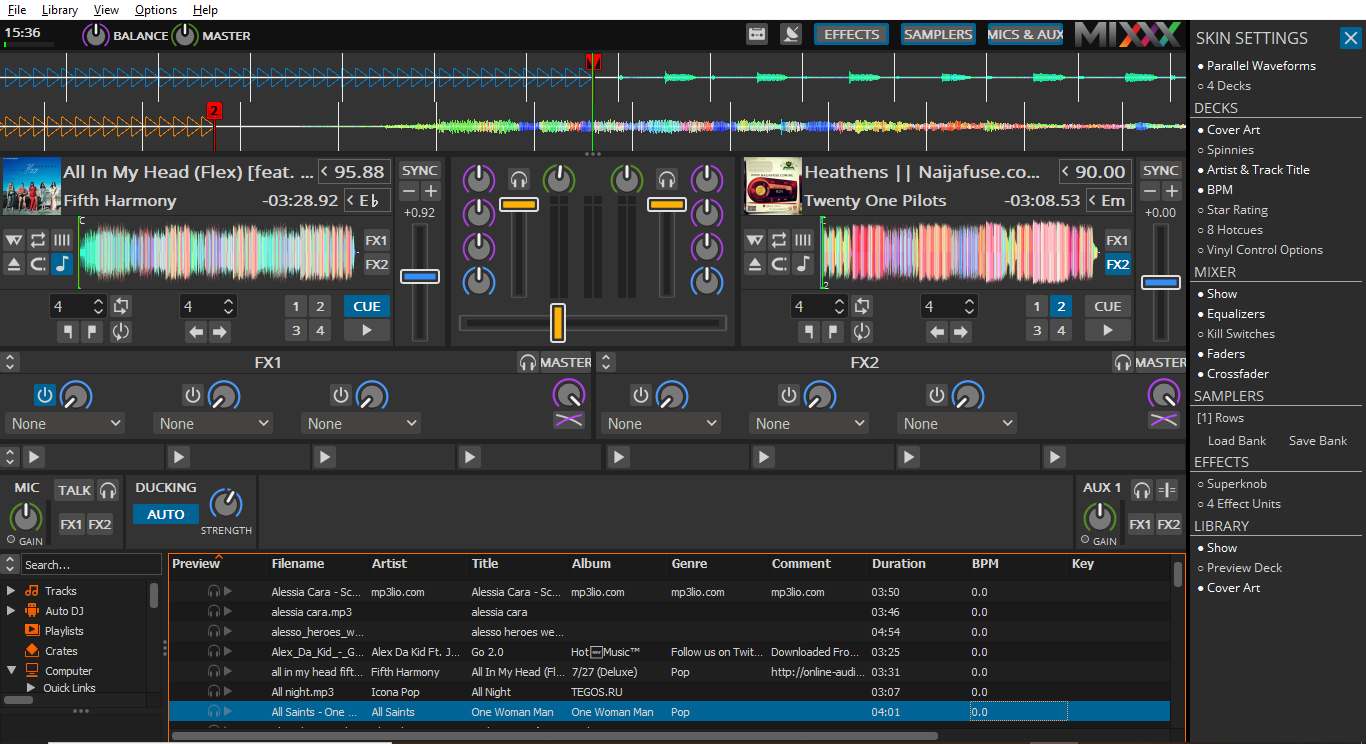
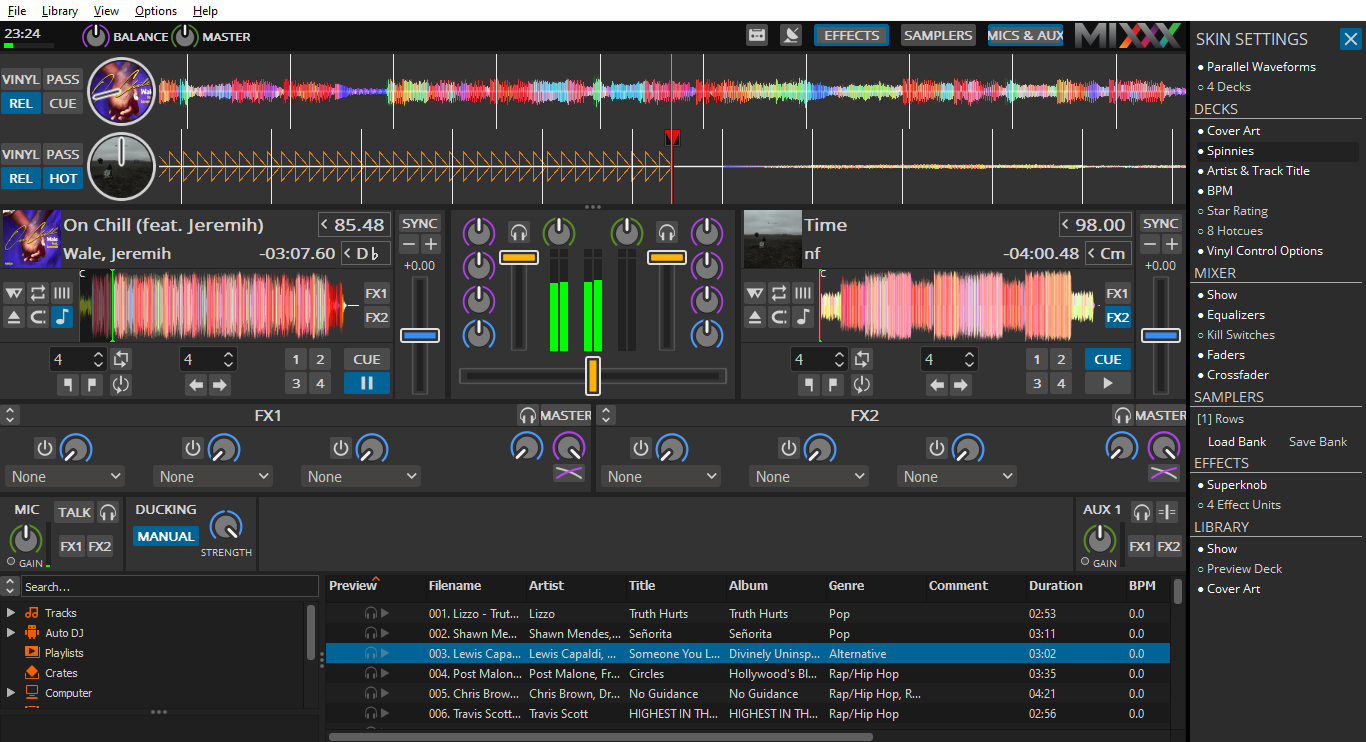
wiped out section expansion buttons sections, among other small edits.

diff --git a/source/chapters/user_interface.rst b/source/chapters/user_interface.rst
@@ -19,7 +19,7 @@ Mixxx and describe its elements, knobs and faders.
 
    The Mixxx interface - Deere skin
 
-This is the Deere skin. It is the default skin supplied with Mixxx. There
+This is the Deere skin. It is the default skin supplied with Mixxx 2.2. There
 are a variety of other skins included with Mixxx. You should explore them all
 to figure out which one you prefer. This section will focus on Deere only.
 
@@ -106,6 +106,7 @@ Clicking the key will expand it to reveal more options:
 **Cover Art**
   The cover art of the track loaded into the deck is displayed on the left side of the track. This is the same as the cover art that is shown under the :guilabel:`Cover Art` column heading in the Mixxx library.
   In Deere skin you can choose to enable or disable the cover art by clicking the gear icon in the upper right corner, then toggling the :menuselection:`Decks --> Cover Art` option. Clicking on the cover art will expand it into a full blown image.
+  The cover art is also shown in the Vinyl Widget next to the :ref:`parallel waveforms <interface-waveform>`.
 
 .. _interface-waveform:
 
@@ -409,19 +410,15 @@ Transport Controls
   The transport controls of the deck
 
 **Beatjump/ Loop Move Size**
-  You can type or use the arrow keys in the input box to select the number of beats to jump or move, with the Beatjump Forward/ Backward buttons.
-
-**Beatjump Forward button**
-  Left-clicking this button while the loop is inactive will make the track jump forward by the set number of beats.
-  Left-clicking this button while the loop is active will move the loop forward by the set number of beats.
-  Right-clicking this button while the loop is inactive will make the track jump forward by one beat.
-  Right-clicking this button while the loop is active will move the loop forward by one beat.
+  You can type, use the arrow keys or scroll vertically in the input box to select the number of beats to jump or move, with the Beatjump Forward/ Backward buttons.
 
 **Beatjump Backward button**
-  Left-clicking this button while the loop is inactive will make the track jump backward by the set number of beats.
-  Left-clicking this button while the loop is active will move the loop backward by the set number of beats.
-  Right-clicking this button while the loop is inactive will make the track jump backward by one beat.
-  Right-clicking this button while the loop is active will move the loop backward by one beat.
+  Clicking this while the loop is inactive will make the track jump backward by the set number of beats (left click) or by one beat (right click).
+  Clicking this while the loop is active will move the loop backward by the set number of beats (left click) or by one beat (right click).
+
+**Beatjump Forward button**
+  Clicking this while the loop is inactive will make the track jump forward by the set number of beats (left click) or by one beat (right click).
+  Clicking this while the loop is active will move the loop forward by the set number of beats (left click) or by one beat (right click).
 
 .. _interface-vc-mode:
 
@@ -442,9 +439,7 @@ Vinyl Control Mode and Cueing controls
 
 The control above the waveforms relate to the :term:`vinyl control` feature in
 Mixxx and is **hidden** in the default
-:ref:`Mixxx user interface <interface-overview>`. Click the
-:ref:`VINYL section expansion button <interface-expansion-buttons>` in the mixer
-section, or use the specific :ref:`appendix-shortcuts` to show or hide the
+:ref:`Mixxx user interface <interface-overview>`. Click the gear icon in the upper right corner, then toggle :menuselection:`Skin Settings --> Vinyl Control Options`, or use the specific :ref:`appendix-shortcuts` to show or hide the
 section.
 
 **Abs/Rel/Const button**
@@ -564,6 +559,7 @@ Loop Controls
 
 In this section of the Mixxx interface you can control (beat-)loops and set the
 loop points of a track.
+You can also shift loops using the :ref:`beatjump / loop move controls <transport-controls>` shown at the right side of the looping controls.
 
 **Beatloop size**
   The input box allows you to set the size of the loop in beats to set with the Beatloop button. Changing this resizes the loop if the loop already matches the size.
@@ -717,40 +713,6 @@ Channel Faders and Level Meters
 
   .. hint:: Some DJ's prefer to use the line faders over the crossfader for
             fading between tracks. Try it, you may like it.
-
-.. _interface-expansion-buttons:
-
-Section Expansion Buttons
--------------------------
-
-.. figure:: ../_static/2.2/expansion-buttons-top.png
-   :align: center
-   :width: 435px
-   :figwidth: 100%
-   :alt: The section expansion buttons
-   :figclass: pretty-figures
-
-   The section expansion buttons on top
-
-   .. figure:: ../_static/2.2/expansion-buttons-skin-settings.png
-      :align: center
-      :width: 220px
-      :figwidth: 100%
-      :alt: The section expansion buttons
-      :figclass: pretty-figures
-
-      The section expansion options under the Skin settings on the right.
-
-On top, and on the right side of the user interface are the section expansion buttons abd options.
-
-If you click on either :guilabel:`MICS & AUX`, :guilabel:`SAMPLER`, or
-:guilabel:`EFFECTS` then you will enable control sections for interacting with:
-
-* :ref:`interface-mic`
-* :ref:`interface-sampler`
-
-
-You can also use the specific :ref:`appendix-shortcuts`.
 
 .. _interface-head-master:
 
@@ -978,7 +940,7 @@ decks, see :ref:`interface-decks`.
 
 The Sampler section can be **hidden** in the
 :ref:`Mixxx user interface <interface-overview>`. Click the
-:ref:`SAMPLER <interface-expansion-buttons>` button, or use the specific
+:guilabel:`SAMPLERS` button at the top of the user interface, or use the specific
 :ref:`appendix-shortcuts` to show or hide the section.
 
 Waveform Display
@@ -1102,8 +1064,7 @@ The Microphone Section
    The Microphone section
 
 The microphone section is **hidden** in the default :ref:`Mixxx user interface
-<interface-overview>`. Click the :ref:`MIC <interface-expansion-buttons>`
-button in the mixer section, or use the specific :ref:`appendix-shortcuts` to
+<interface-overview>`. Click the :guilabel:`MICS & AUX` button at the top of your user interface, or use the specific :ref:`appendix-shortcuts` to
 show or hide the section.
 
 .. seealso:: The :ref:`microphones` chapter has detailed instructions for
